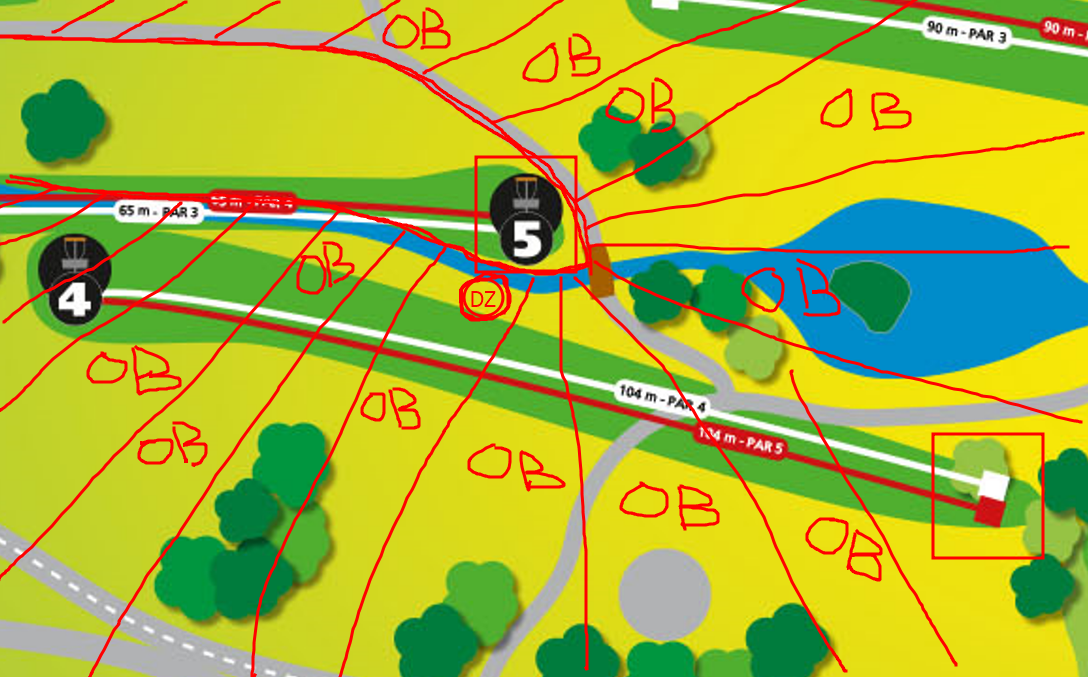
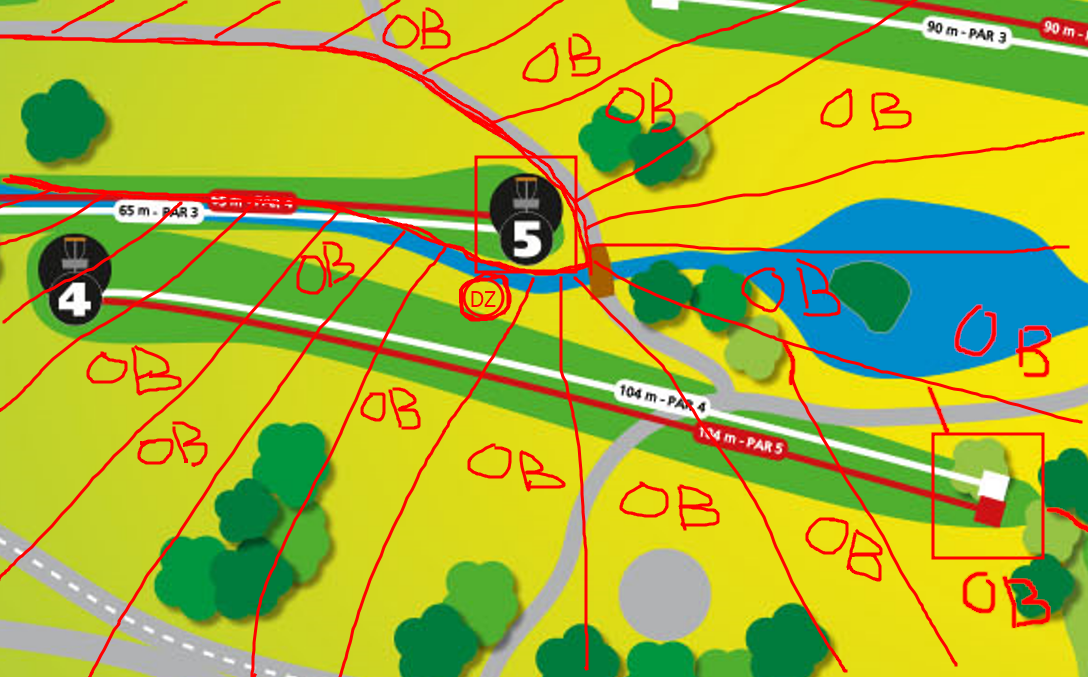
Updates to maps to define OB better and added island defination on hole 9

diff --git a/README.md b/README.md
@@ -120,6 +120,10 @@ The double mandatory is the trees on either side of the gap.
 
 **Tee Pad 8 >> Basket 9**
 
+Here the island is over the creek, all OB's in the water go to the DZ.
+
+DZ is located on the asphalt long of the basket and faces the creek for the come back putt.
+
 ![Hole 9](images/hole_9.png)
 
 ---
